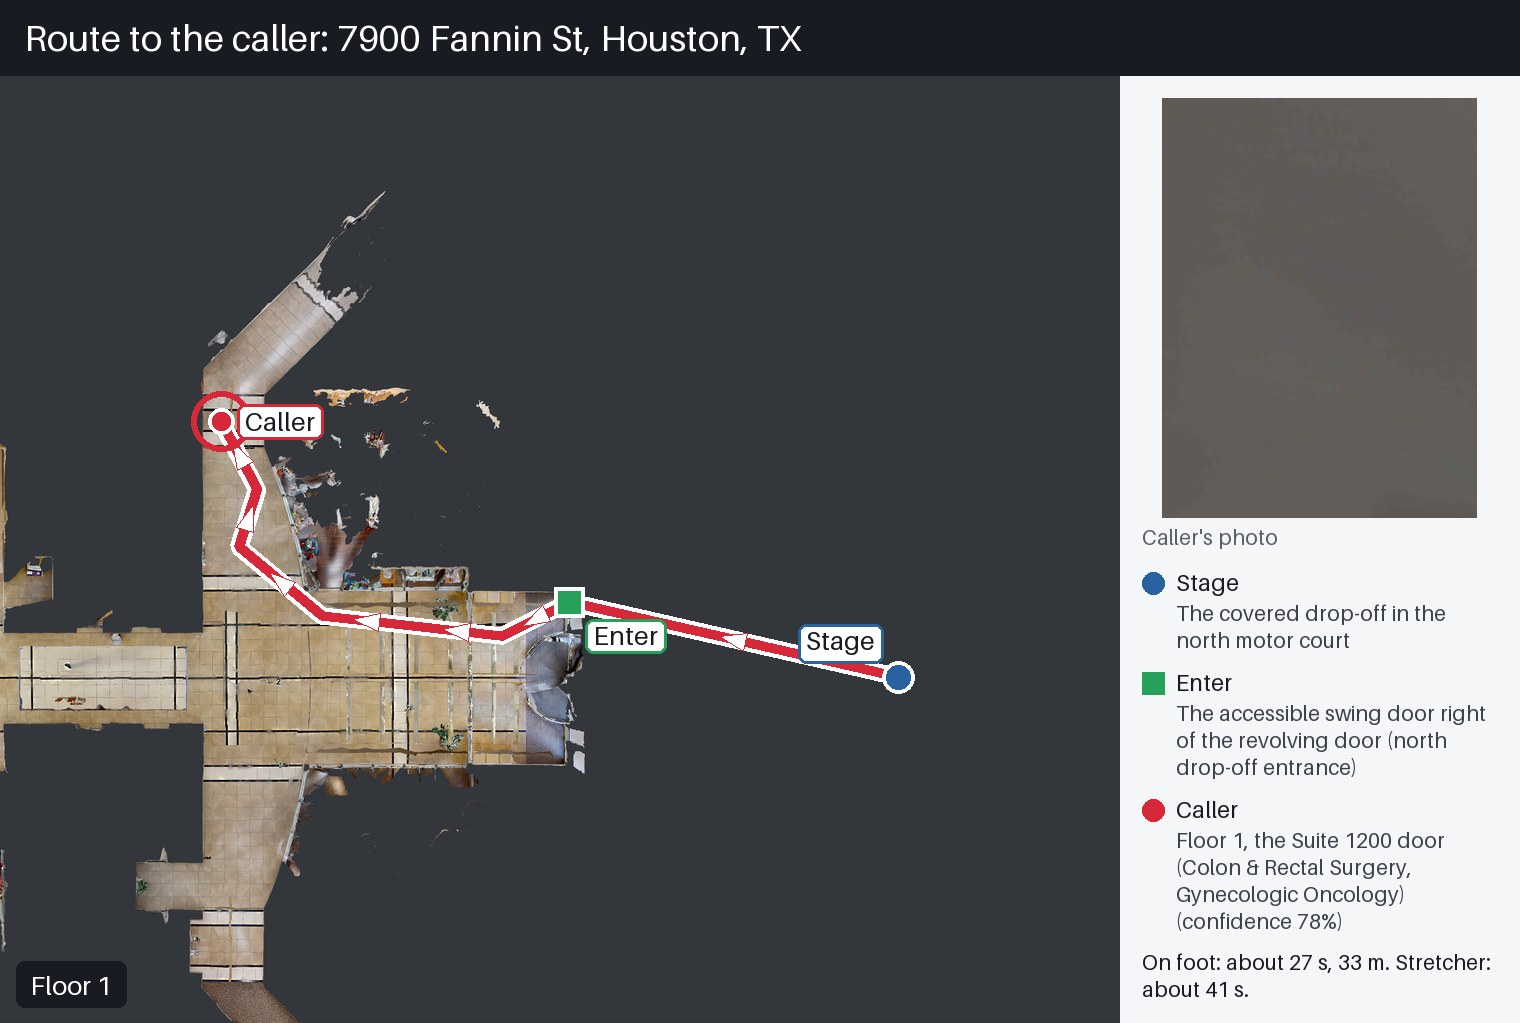
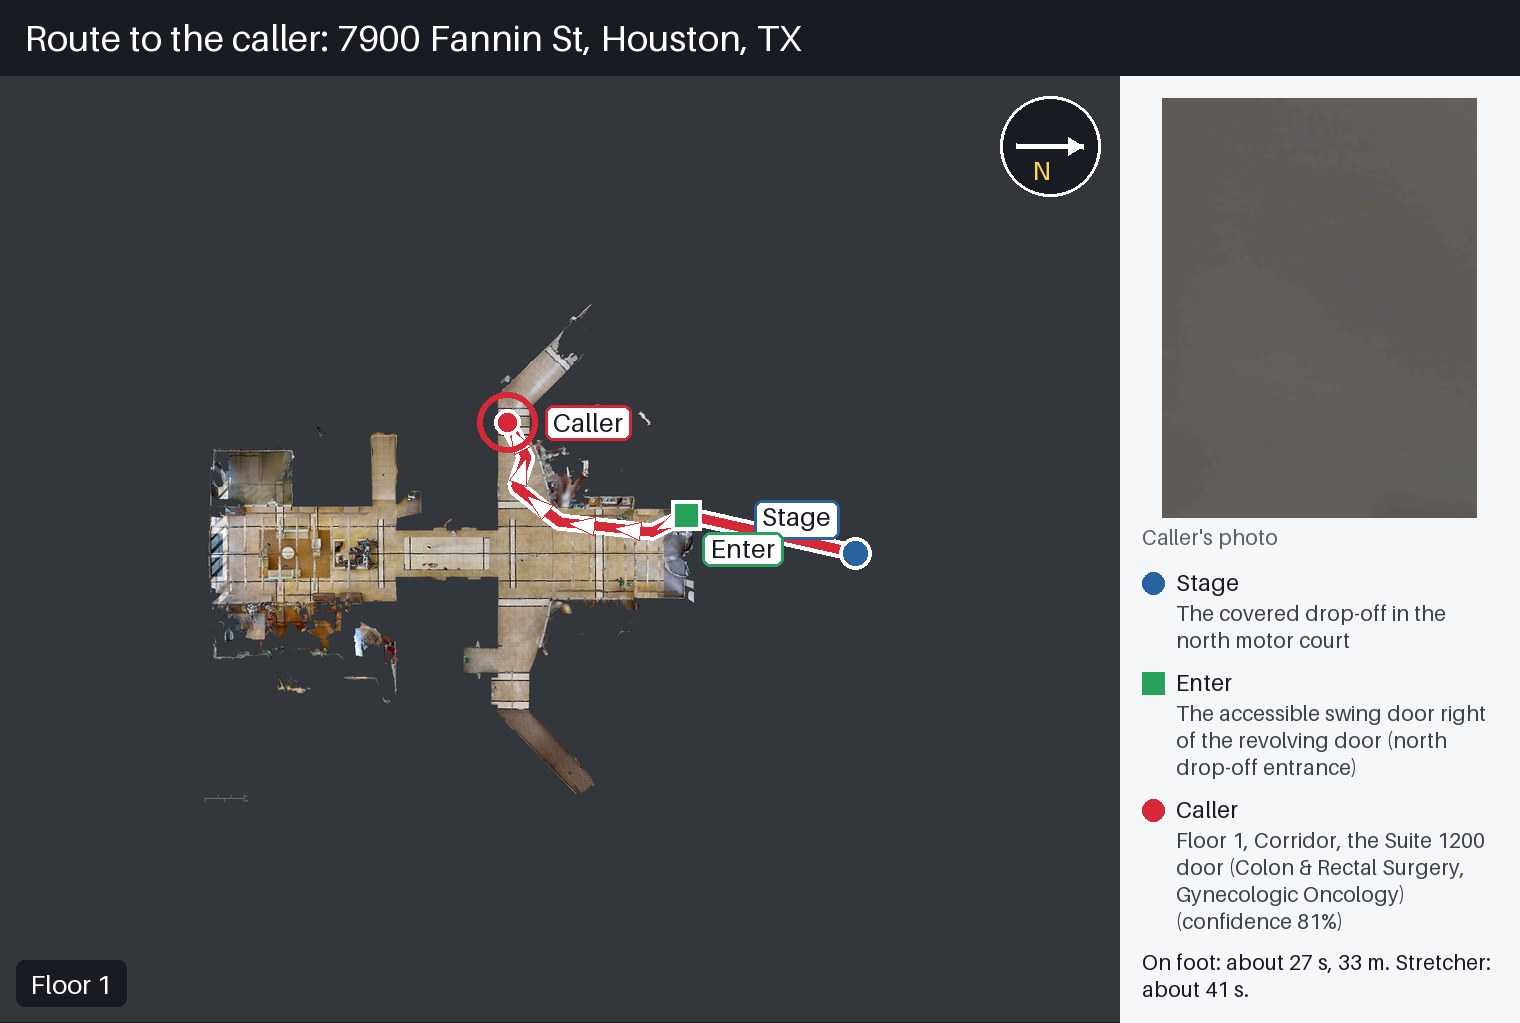
Refresh the example route pictures; say what the Verifier does and does not check
Claude-Session: https://claude.ai/code/session_01REhduB2rBsbrG9f8rMP3G4

diff --git a/live/route_image.py b/live/route_image.py
@@ -165,7 +165,8 @@ def _panel(g: Graph, seq: int, path: list[str], target: str, door: str | None, s
         ang = math.atan2(north[1], north[0])
         d.polygon([tip, (tip[0] + 18 * math.cos(ang + 2.6), tip[1] + 18 * math.sin(ang + 2.6)),
                    (tip[0] + 18 * math.cos(ang - 2.6), tip[1] + 18 * math.sin(ang - 2.6))], fill=WHITE)
-        d.text((cx - 9 - 20 * north[0], cy - 13 - 20 * north[1]), "N", fill=(255, 210, 90), font=font)
+        px, py = -north[1], north[0]                       # beside the shaft, not on it
+        d.text((cx - 9 + 22 * px - 8 * north[0], cy - 14 + 22 * py - 8 * north[1]), "N", fill=(255, 210, 90), font=font)
     name = next((g.nodes[n].get("floor_name") for n in nodes if g.nodes[n].get("floor_name")), f"Floor {seq + 1}")
     d.rounded_rectangle((16, canvas.height - 62, 16 + d.textlength(name, font=font) + 28, canvas.height - 16), 8, fill=INK)
     d.text((30, canvas.height - 54), name, fill=WHITE, font=font)

diff --git a/live/README.md b/live/README.md
@@ -40,6 +40,15 @@ Any building with a graph under `buildings/` works: 6550930 (7900 Fannin St, Hou
 7900 Fannin St is the one to demo: a medical office building with 17 health care
 tenants on record, four doors, and a best door that is not the street-address door.
 
+## What the Verifier does and does not check
+
+Every factual packet line carries a `[src:...]` tag, and the agent's Verifier confirms
+that the tag points at data that exists in the incident's files (`audit.json`). A line
+with no source is moved to "Not confirmed". This catches a claim with nothing behind
+it. It does not check that the sentence says what the data says: a sweep of 31 runs
+found wording that was wrong or misleading while every line audited as supported.
+Those were fixed by hand; the check itself is still only as strong as described here.
+
 ## When the agent asks the caller a question
 
 The agent asks only when the answer could change what the crew does: the likely
